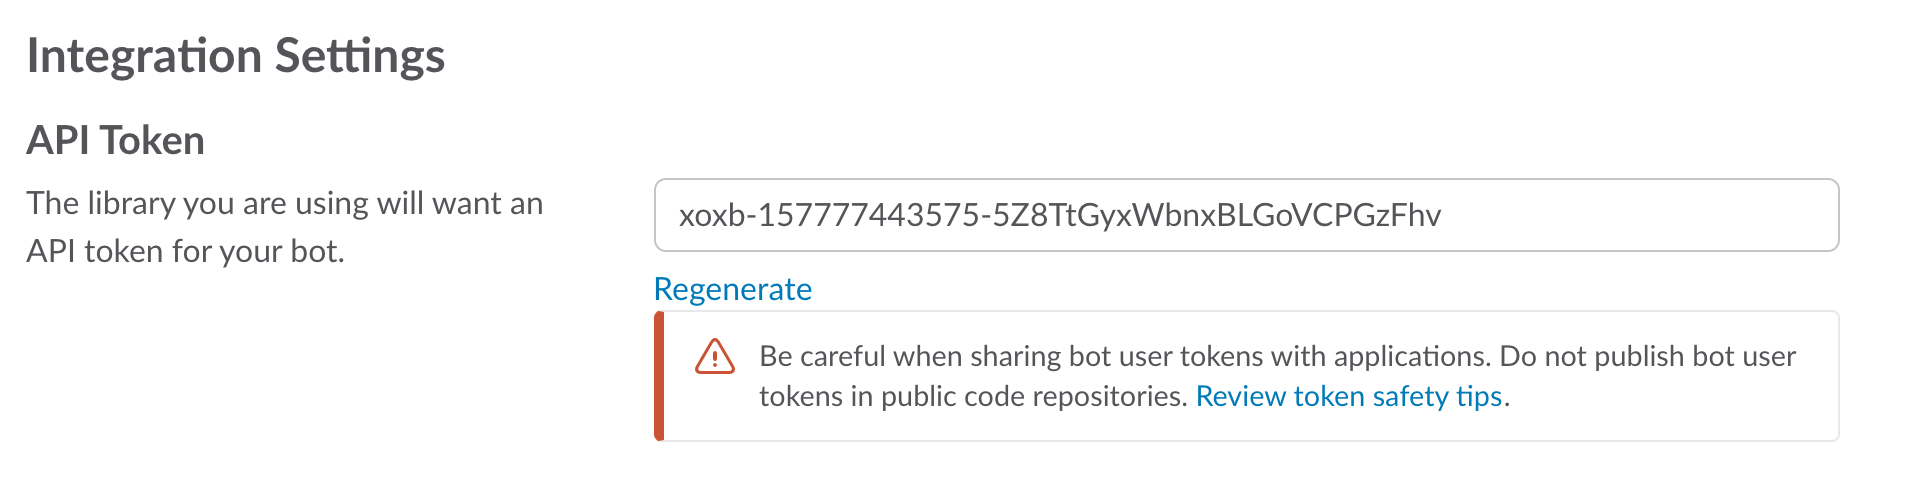
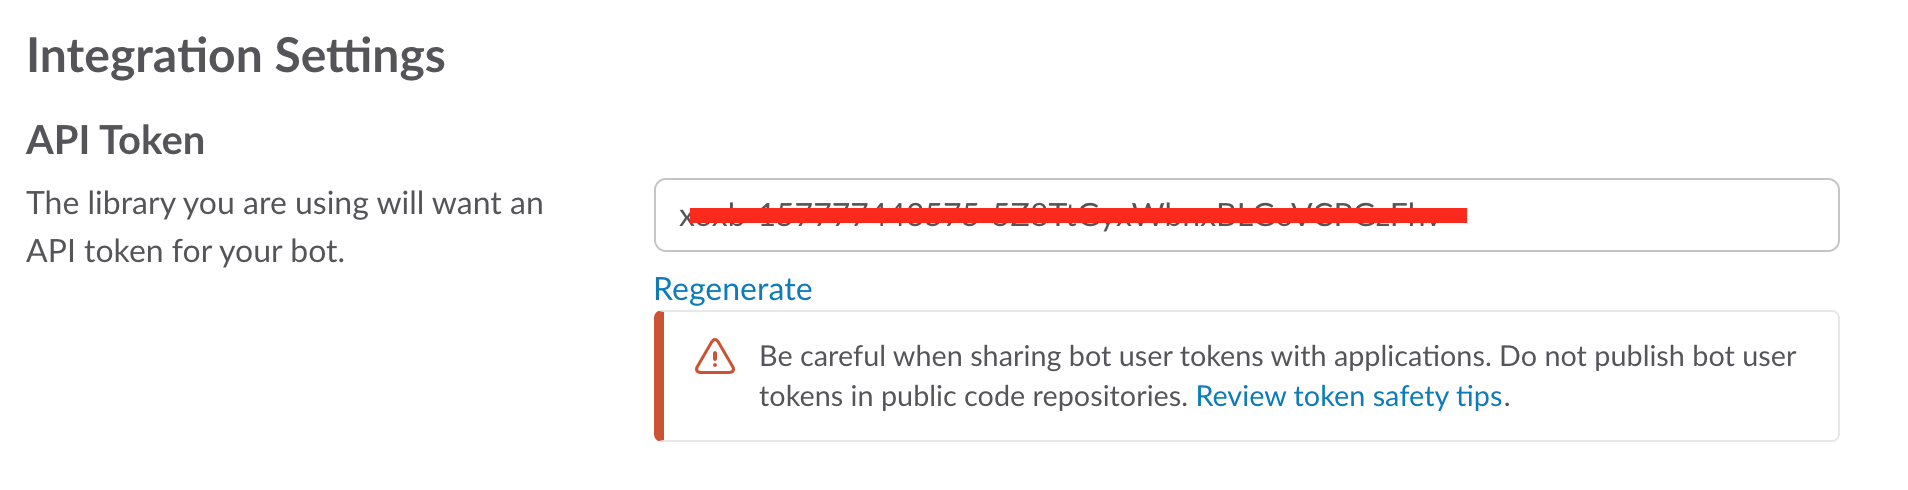
Update images and README.md (#187)
Change view_bot_token.png to not show token.
Show new view of view_discovery_ids.
Show how to get to Manage Data.

Changed region(s): [[0.3401, 0.398, 0.7731, 0.4592]]

diff --git a/README.md b/README.md
@@ -165,6 +165,10 @@ Discovery will setup your storage. (You may be invited to upgrade for production
 
 Seed the content by using either `Drag and drop your documents here` or `browse from your computer`. Choose the JSON files under [`data/ibm_store/`](data/ibm_store).
 
+Click on the left menu `Manage Data` icon and then click your newly created Data collection:
+
+![manage data](doc/source/images/watsonOnlineManageData.png)
+
 Under the `Overview` tab, `Collection Info` section, click `Use this collection in API` and copy the `Collection ID` and the `Environment ID` into your `.env` file as `DISCOVERY_COLLECTION_ID` and `DISCOVERY_ENVIRONMENT_ID`.
 
 !["Discovery IDs"](doc/source/images/view_discovery_ids.png)
